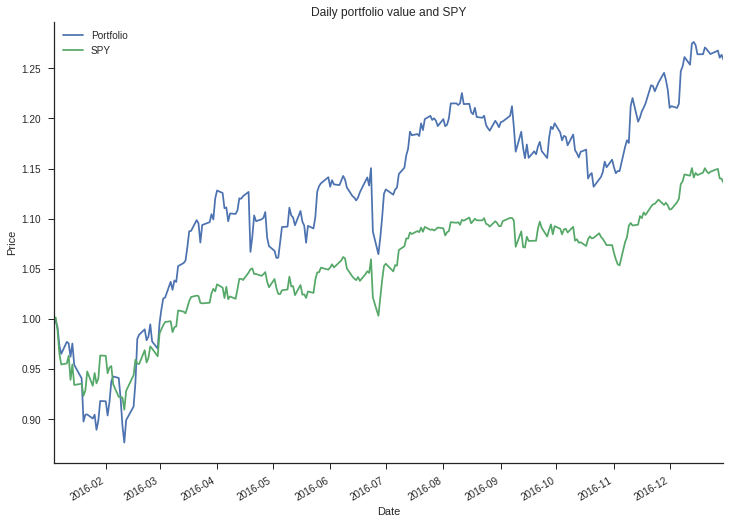
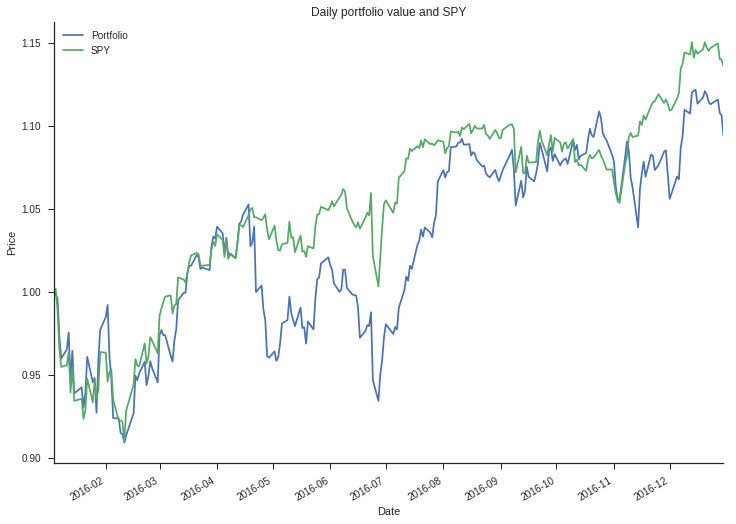
fixed sharpe_ratio out

diff --git a/_posts/2017-02-09-algo-trading-1.md b/_posts/2017-02-09-algo-trading-1.md
@@ -632,7 +632,7 @@ start_value = 1000000 # initial amount of money to invest
 allocations = [0.5, 0.3, 0.2] # must add to 1
 pt = Portfolio(df, port_symbols, start_value, allocations)
 print("Sharpe Ratio\n" + "==================\n" + str(pt.sharpe_ratio))
-print("Final Cumulative Return\n" + "===================\n" + str(pt.sharpe_ratio))
+print("\nFinal Cumulative Return\n" + "===================\n" + str(pt.final_cum_return))
 ~~~
 
 ~~~
@@ -640,10 +640,11 @@ Sharpe Ratio
 ==================
 Value    0.915735
 dtype: float64
+
 Final Cumulative Return
 ===================
-Value    0.915735
-dtype: float64
+Value    0.150251
+Name: 2016-12-30 00:00:00, dtype: float64
 ~~~
 
 We can use the `update` method to update the portfolio to new initial allocations. I also
@@ -654,7 +655,7 @@ our portfolio to the "market":
 new_alloc = [0.1, 0.1, 0.8]
 pt.update(new_alloc)
 print("Sharpe Ratio\n" + "==================\n" + str(pt.sharpe_ratio))
-print("Final Cumulative Return\n" + "===================\n" + str(pt.sharpe_ratio))
+print("\nFinal Cumulative Return\n" + "===================\n" + str(pt.final_cum_return))
 pt.plot_vs_spy()
 ~~~
 
@@ -663,10 +664,11 @@ Sharpe Ratio
 ==================
 Value    0.47621
 dtype: float64
+
 Final Cumulative Return
 ===================
-Value    0.47621
-dtype: float64
+Value    0.071464
+Name: 2016-12-30 00:00:00, dtype: float64
 ~~~
 
 <img src="/assets/images/trading_1/plot_10.png"/>
@@ -769,15 +771,23 @@ Now we can optimize our portfolio:
 ~~~python
 port_symbols = ['AAPL', 'IBM', 'GOOG']
 start_value = 1000000 # initial amount of money to invest
-allocations = [0.5, 0.3, 0.2] # must add to 1
+allocations = [0.1, 0.2, 0.7] # must add to 1
 pt = Portfolio(df, port_symbols, start_value, allocations)
-print(pt.final_cum_return)
+pt.analysis()
 ~~~
 
 ~~~
-Value    0.150251
-Name: 2016-12-30 00:00:00, dtype: float64
+Start Date: 2016-01-03
+End Date: 2016-12-29
+Symbols: ['AAPL', 'IBM', 'GOOG']
+Allocations: [0.1, 0.2, 0.7]
+Sharpe Ratio: 0.617229777047
+Volatility (stdev of daily returns): 0.0106923382945
+Average Daily Return: 0.000415737586147
+Cumulative Return: 0.0941713109724
 ~~~
+
+<img src="/assets/images/trading_1/plot_11.png">
 
 ~~~python
 pt.optimize()
@@ -795,7 +805,7 @@ Average Daily Return: 0.000989114258415
 Cumulative Return: 0.258616463303
 ~~~
 
-<img src="/assets/images/trading_1/plot_11.png"/>
+<img src="/assets/images/trading_1/plot_12.png"/>
 
 It looks like we beat the market! Congratulations! Of course, this is easy since hindsight
 is 20/20. We will look to use machine learning to come up with strategies to optimize future
